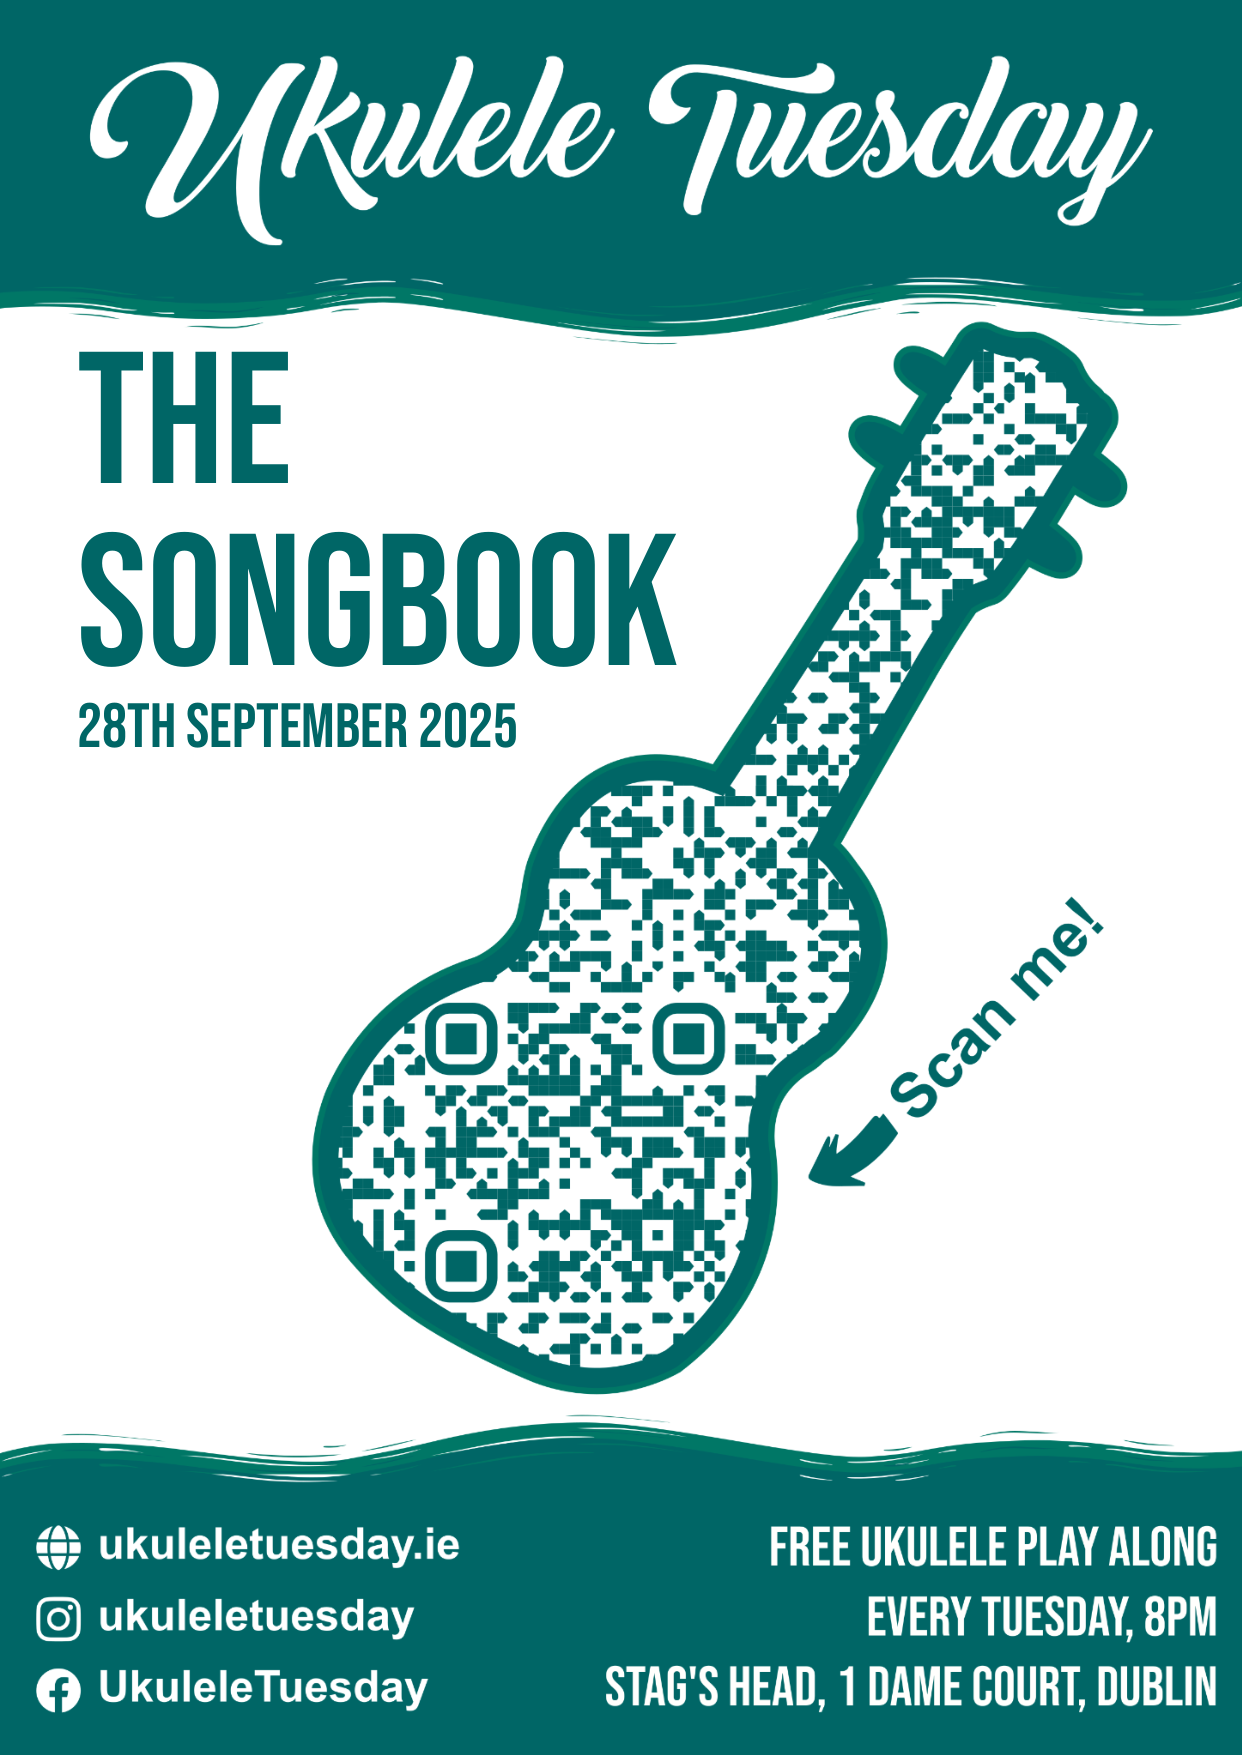
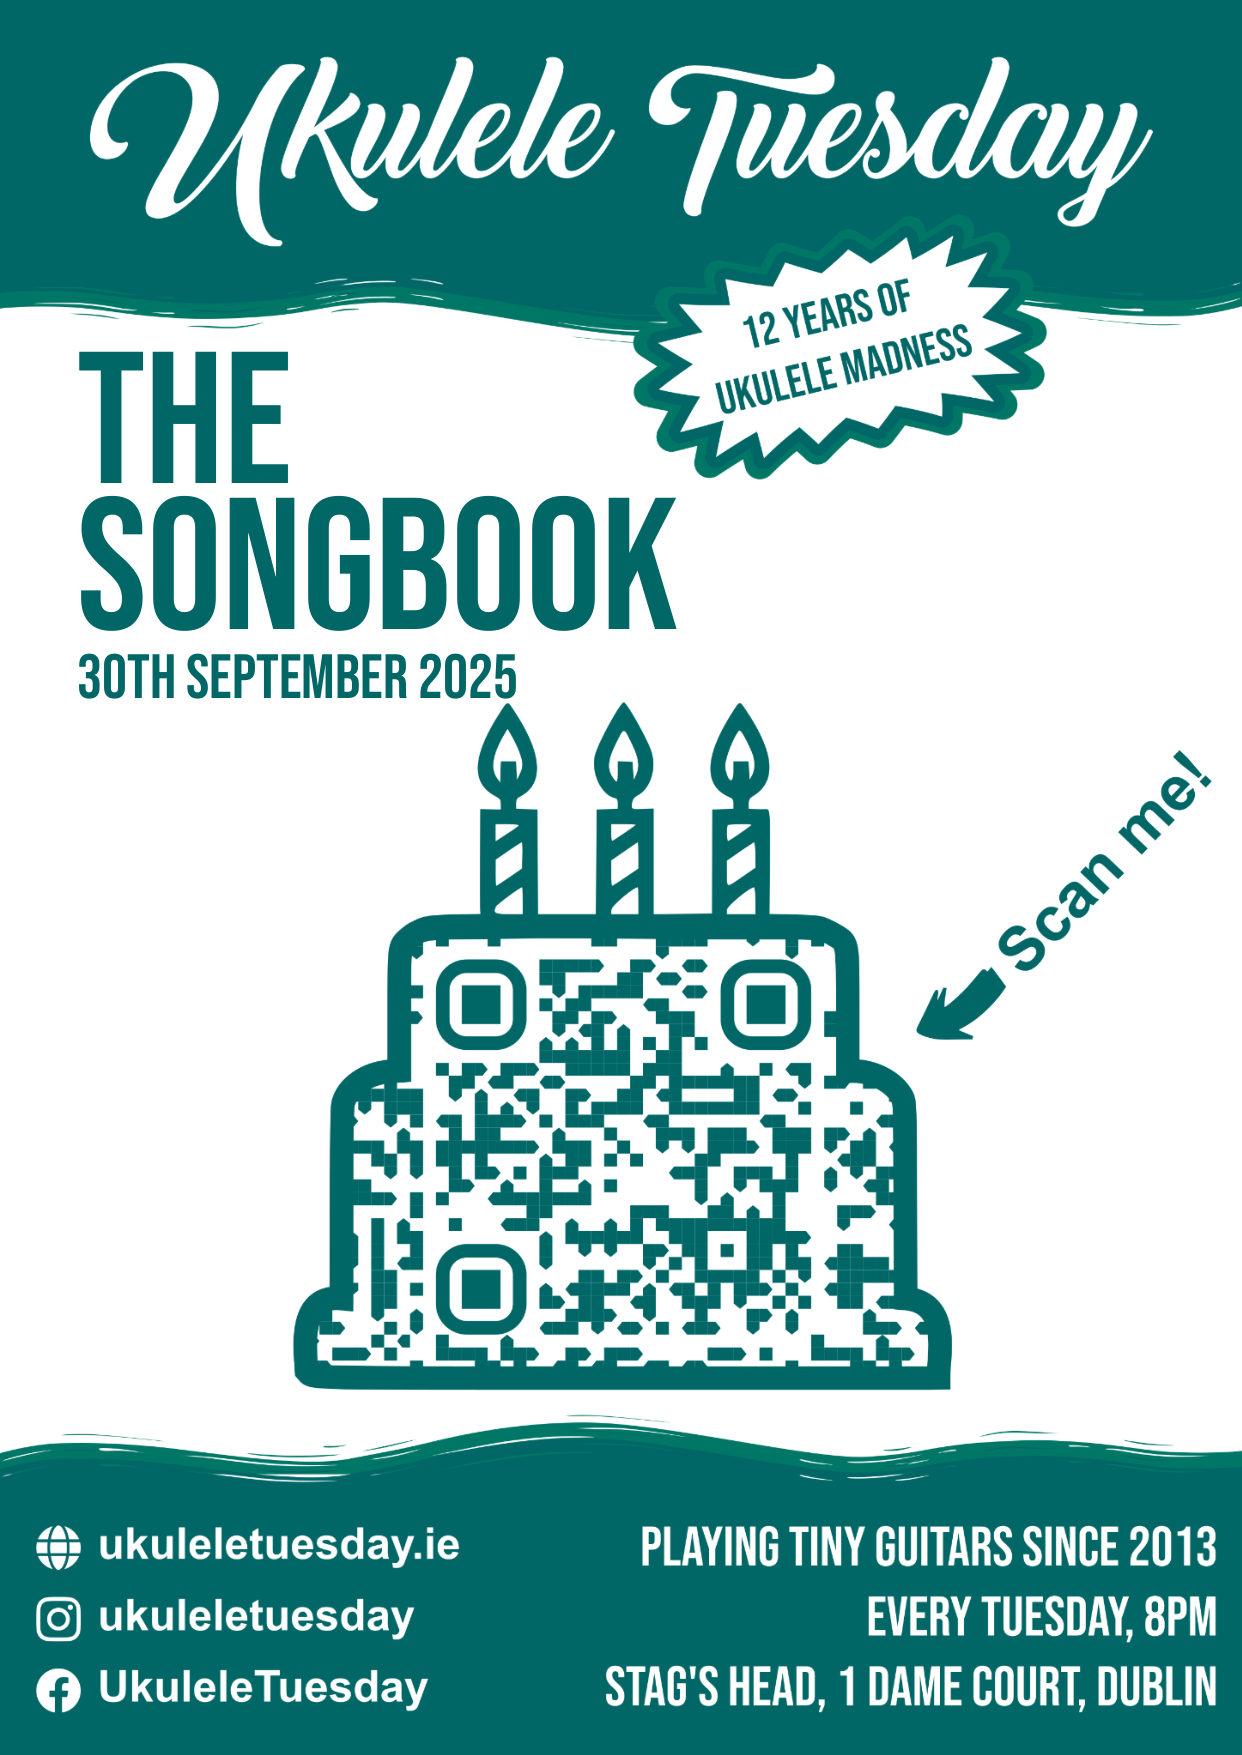
Deploying to gh-pages from @ UkuleleTuesday/songbooks@e02402303e0f1c5e141ebdcf0a0245e30f833e82 🚀

diff --git a/index.html b/index.html
@@ -49,10 +49,10 @@
       
         <li class="songbook-item">
           
-          <a href="https://storage.googleapis.com/ukulele-tuesday-songbooks/ukulele-tuesday-songbook-current-2025-09-28.pdf" target="_blank" rel="noopener noreferrer"
+          <a href="https://storage.googleapis.com/ukulele-tuesday-songbooks/ukulele-tuesday-songbook-current-2025-09-30.pdf" target="_blank" rel="noopener noreferrer"
              class="songbook-link"
              data-songbook-title="Current Songbook"
-             data-songbook-url="https://storage.googleapis.com/ukulele-tuesday-songbooks/ukulele-tuesday-songbook-current-2025-09-28.pdf"
+             data-songbook-url="https://storage.googleapis.com/ukulele-tuesday-songbooks/ukulele-tuesday-songbook-current-2025-09-30.pdf"
              data-songbook-filename=""
              data-songbook-subject="The current edition of the Ukulele Tuesday songbook, containing the songs used during our Tuesday sessions.
 We rotate the songs we play on Tuesday sessions frequently, so make sure to download the latest version!
@@ -78,10 +78,10 @@ We rotate the songs we play on Tuesday sessions frequently, so make sure to down
       
         <li class="songbook-item">
           
-          <a href="https://storage.googleapis.com/ukulele-tuesday-songbooks/ukulele-tuesday-songbook-complete-2025-09-28.pdf" target="_blank" rel="noopener noreferrer"
+          <a href="https://storage.googleapis.com/ukulele-tuesday-songbooks/ukulele-tuesday-songbook-complete-2025-09-30.pdf" target="_blank" rel="noopener noreferrer"
              class="songbook-link"
              data-songbook-title="Complete Songbook"
-             data-songbook-url="https://storage.googleapis.com/ukulele-tuesday-songbooks/ukulele-tuesday-songbook-complete-2025-09-28.pdf"
+             data-songbook-url="https://storage.googleapis.com/ukulele-tuesday-songbooks/ukulele-tuesday-songbook-complete-2025-09-30.pdf"
              data-songbook-filename=""
              data-songbook-subject="The complete collection of all available Ukulele Tuesday songs sheets.
 ">
@@ -104,10 +104,10 @@ We rotate the songs we play on Tuesday sessions frequently, so make sure to down
       
         <li class="songbook-item">
           
-          <a href="https://storage.googleapis.com/ukulele-tuesday-songbooks/ukulele-tuesday-songbook-ukulele-hooley-2025-2025-09-28.pdf" target="_blank" rel="noopener noreferrer"
+          <a href="https://storage.googleapis.com/ukulele-tuesday-songbooks/ukulele-tuesday-songbook-ukulele-hooley-2025-2025-09-30.pdf" target="_blank" rel="noopener noreferrer"
              class="songbook-link"
              data-songbook-title="Ukulele Hooley 2025"
-             data-songbook-url="https://storage.googleapis.com/ukulele-tuesday-songbooks/ukulele-tuesday-songbook-ukulele-hooley-2025-2025-09-28.pdf"
+             data-songbook-url="https://storage.googleapis.com/ukulele-tuesday-songbooks/ukulele-tuesday-songbook-ukulele-hooley-2025-2025-09-30.pdf"
              data-songbook-filename=""
              data-songbook-subject="The official songbook for the 2025 Ukulele Hooley Friday jam.">
             <div class="preview-container">
@@ -159,7 +159,7 @@ We rotate the songs we play on Tuesday sessions frequently, so make sure to down
         </a>
       </div>
       
-      <div class="last-updated" id="last-updated-container" data-timestamp="2025-09-28T10:04:31.329509+00:00">
+      <div class="last-updated" id="last-updated-container" data-timestamp="2025-09-30T17:35:01.856745+00:00">
         Last updated: <span id="last-updated-text"></span>
       </div>
       <script>
